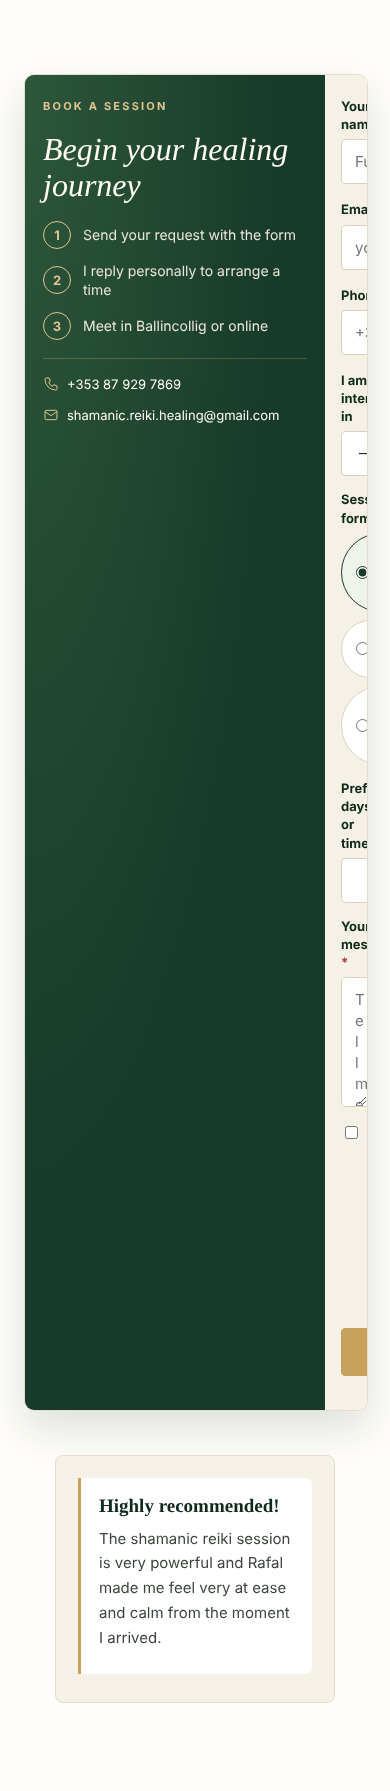
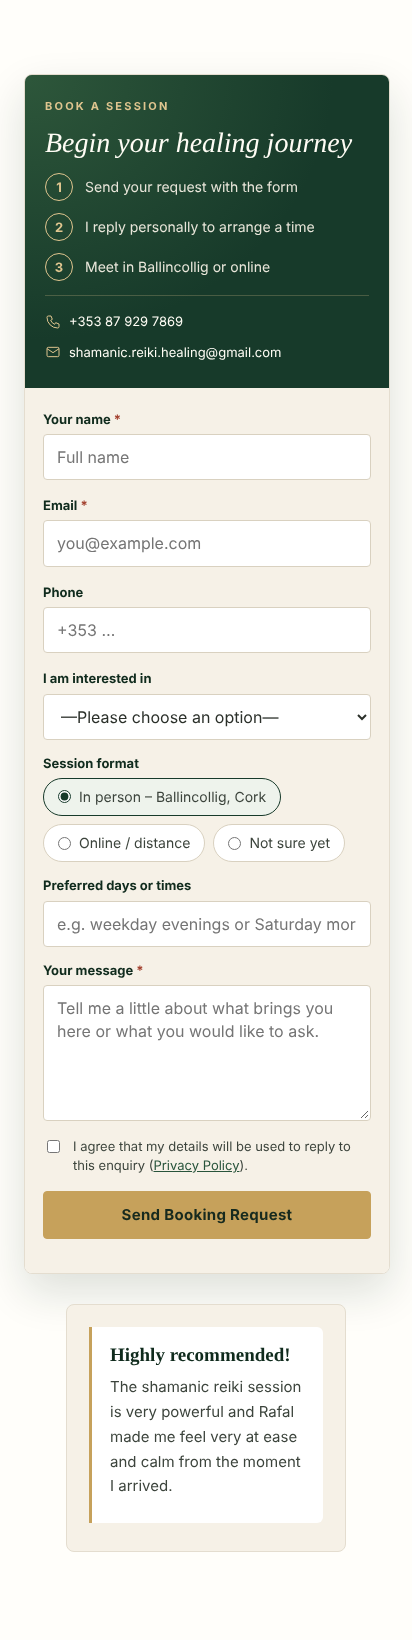
3.4.9: contact form one column on phones, no early error messages
Claude-Session: https://claude.ai/code/session_01XaVTjSmmHZBTXPZ2iPxUg3

diff --git a/shamanic-forest-earth/assets/css/forest-earth.css b/shamanic-forest-earth/assets/css/forest-earth.css
@@ -912,3 +912,22 @@ body.sfe-skin .sfe-evbook a.sfe-evbook__btn:hover{background:#d4b26c}
 body.sfe-skin .sfe-evbook a.sfe-evbook__btn--ghost{background:transparent;color:#173a2a!important;border-color:#173a2a}
 body.sfe-skin .sfe-evbook--end a.sfe-evbook__btn--ghost{color:#fffdf5!important;border-color:rgba(255,253,245,.6)}
 @media (max-width:600px){.sfe-evbook{padding:20px 18px}.sfe-evbook__actions,.sfe-evbook a.sfe-evbook__btn{width:100%;justify-content:center}body.sfe-skin .sfe-evbook h3{font-size:25px!important}}
+
+/* 3.4.9 – booking card on phones and tablets: one column (later desktop rules had kept two columns) */
+@media (max-width:900px){
+  body.sfe-skin .sfe-booking{grid-template-columns:minmax(0,1fr)!important}
+  body.sfe-skin .sfe-booking__direct{margin-top:0}
+}
+@media (max-width:560px){
+  body.sfe-skin .sfe-booking{border-radius:8px;margin-bottom:28px}
+  body.sfe-skin .sfe-booking__intro{padding:24px 20px;gap:14px}
+  body.sfe-skin .sfe-booking__intro h2{font-size:28px!important}
+  body.sfe-skin .sfe-booking__steps li{font-size:14px}
+  body.sfe-skin .sfe-form-grid{grid-template-columns:minmax(0,1fr)}
+  body.sfe-skin .sfe-booking__form{padding:22px 18px}
+  body.sfe-skin .sfe-booking input[type=text],body.sfe-skin .sfe-booking input[type=email],body.sfe-skin .sfe-booking input[type=tel],body.sfe-skin .sfe-booking select,body.sfe-skin .sfe-booking textarea{font-size:16px!important}
+  body.sfe-skin .sfe-booking .sfe-submit{width:100%;min-width:0}
+}
+/* Show "Please fill out this field" only after someone tries to send the form */
+.sfe-booking form.wpcf7-form:not(.invalid):not(.unaccepted):not(.failed) .wpcf7-not-valid-tip{display:none}
+body.sfe-skin .sfe-booking form.wpcf7-form:not(.invalid):not(.unaccepted):not(.failed) .wpcf7-not-valid{border-color:#d9d1c0!important}

diff --git a/shamanic-forest-earth/shamanic-forest-earth.php b/shamanic-forest-earth/shamanic-forest-earth.php
@@ -2,7 +2,7 @@
 /**
  * Plugin Name: Shamanic Forest & Earth
  * Description: Reversible Forest & Earth design system and homepage for Shamanic Reiki Healing Ireland. Designed for the NativeChurch theme. 3.3: top bar, service strip, dated events, review slider, inline newsletter; 3.3.1: consistent styling on every page, booking banner, shamanic artwork.
- * Version: 3.4.8
+ * Version: 3.4.9
  * Author: SmartSite
  * License: GPL-2.0-or-later
  * Text Domain: shamanic-forest-earth
@@ -10,7 +10,7 @@
 
 if ( ! defined( 'ABSPATH' ) ) { exit; }
 
-define( 'SFE33_VERSION', '3.4.8' );
+define( 'SFE33_VERSION', '3.4.9' );
 define( 'SFE33_FORM_VER', 3 );
 /* Artwork generated for the site and stored in its Media Library (IDs). */
 define( 'SFE33_IMG_HERO', 20986 );

diff --git a/README.md b/README.md
@@ -2,7 +2,7 @@
 
 A WordPress plugin that gives the **NativeChurch** theme a "Forest & Earth" look: deep forest green, gold and cream, with a shamanic feel. It is built for [shamanic-reiki-healing.com](https://www.shamanic-reiki-healing.com/).
 
-**Current version:** 3.4.8 · Requires WordPress 6.0+ and PHP 7.4+ · MIT (see [LICENSE](LICENSE))
+**Current version:** 3.4.9 · Requires WordPress 6.0+ and PHP 7.4+ · MIT (see [LICENSE](LICENSE))
 
 ![Homepage hero and top bar](screenshots/hero-topbar.png)
 
@@ -45,7 +45,7 @@ These screenshots are taken from the live site, so they update automatically:
 
 ## Installation
 
-1. Download `releases/shamanic-forest-earth-3.4.8.zip`.
+1. Download `releases/shamanic-forest-earth-3.4.9.zip`.
 2. In WordPress, go to **Plugins → Add New → Upload Plugin**, choose the ZIP and click **Install Now**. If an older version is installed, choose **Replace current with uploaded**.
 3. Activate the plugin. You can then change its options under **Settings → Forest & Earth**.
 
